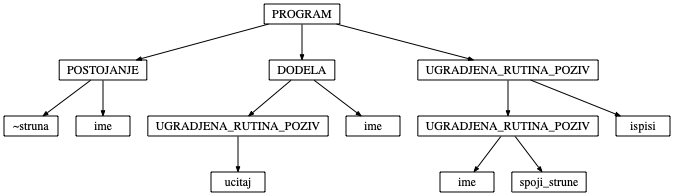
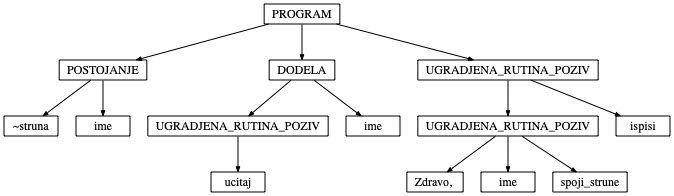
Example 3 working, Added jump function

Changed region(s): [[0.592, 0.6735, 0.9347, 1.0]]

diff --git a/project_2/interpreter/app/parser.py b/project_2/interpreter/app/parser.py
@@ -93,20 +93,22 @@ class Parser():
                         self.celina_ponovi()
                 if self.is_celina_pitanje():
                         self.celina_pitanje()
-                if self.current_token.token_type == NAREDBA_KRAJ:
-                        self.eat(NAREDBA_KRAJ)
-                if self.current_token.token_type == COLON:
-                        self.eat(COLON)
+                while self.current_token.token_type != NAREDBA_KRAJ:
+                        self.eat(self.current_token.token_type)
+                self.eat(NAREDBA_KRAJ)
+                self.eat(COLON)
                 return self.current_token.token_type == NAREDBA_PONAVLJANJE
 
         def naredba_ponavljanje(self):
                 self.eat(NAREDBA_POCETAK)
                 ponovi = self.celina_ponovi()
                 pitanje = self.celina_pitanje()
+                while self.current_token.token_type != NAREDBA_KRAJ:
+                        self.eat(self.current_token.token_type)
                 self.eat(NAREDBA_KRAJ)
                 self.eat(COLON)
                 self.eat(NAREDBA_PONAVLJANJE)
-                return NaredbaUslov(pitanje, ponovi)
+                return NaredbaPonavljanje(pitanje, ponovi)
 
         def dodela(self):
                 self.eat(DODELA_POCETAK)
@@ -232,17 +234,32 @@ class Parser():
                                 cvorovi.append(self.rutina_poziv())
                         elif self.current_token.token_type == UGRADJENA_RUTINA_POZIV_POCETAK:
                                 cvorovi.append(self.ugradjena_rutina_poziv())
+                        elif self.current_token.token_type == VRATI_POCETAK:
+                                cvorovi.append(self.vrati())
                         else:
                             self.error('Derivation error: CELINA_CELINA')
                 return CelinaCelina(cvorovi)
+
+        def jump(self, start, end):
+            depth = 0
+            while self.current_token.token_type != EOF:
+                    if self.current_token.token_type == start:
+                        depth += 1
+                    elif self.current_token.token_type == end:
+                        depth -= 1
+                        if depth < 0:
+                            break
+                    self.eat(self.current_token.token_type)
+
 
         def rutina(self):
             self.eat(RUTINA_POCETAK)
             self.eat(PIPE)
             tip = None
             if self.current_token.token_type == TIP_PODATKA:
-                tip = self.tip_podatka()
+                    tip = self.tip_podatka()
             sadrzaj = self.celina_sadrzaj_rutine()
+            self.jump(RUTINA_POCETAK, RUTINA_KRAJ)
             self.eat(RUTINA_KRAJ)
             self.eat(COLON)
             naziv = self.naziv()
@@ -278,6 +295,13 @@ class Parser():
             naziv = self.naziv()
             return UgradjenaRutinaPoziv(argumenti, naziv)
 
+        def vrati(self):
+                self.eat(VRATI_POCETAK)
+                self.eat(PIPE)
+                izraz = self.logic()
+                self.eat(VRATI_KRAJ)
+                return Vrati(izraz)
+
         def tip_podatka(self):
                 if self.current_token.token_type == TIP_PODATKA:
                         tip = TipPodatka(self.current_token.value)
@@ -302,6 +326,9 @@ class Parser():
                 elif token.token_type == NAZIV:
                         self.eat(NAZIV)
                         return Naziv(token.value)
+                elif token.token_type == STRUNA:
+                        self.eat(STRUNA)
+                        return Naziv(token.value)
                 elif token.token_type in [MINUS, LOGICKO_NE]:
                         op_token = self.current_token
                         if op_token.token_type == MINUS:
@@ -324,7 +351,7 @@ class Parser():
                         self.eat(ZAGRADA_ZATVORENA)
                         return result
                 elif token.token_type == RUTINA_POZIV_POCETAK:
-                        return rutina_poziv()
+                        return self.rutina_poziv()
                 elif token.token_type == UGRADJENA_RUTINA_POZIV_POCETAK:
                         return self.ugradjena_rutina_poziv()
 

diff --git a/project_2/interpreter/app/lexer.py b/project_2/interpreter/app/lexer.py
@@ -63,7 +63,7 @@ class Lexer():
                         return Token(CELINA_KRAJ, string)
                 elif string == '#rutina':
                         return Token(RUTINA_POCETAK, string)
-                elif string == '#rutina':
+                elif string == '##rutina':
                         return Token(RUTINA_KRAJ, string)
                 elif string == '#~rutina':
                         return Token(RUTINA_POZIV_POCETAK, string)
@@ -80,7 +80,7 @@ class Lexer():
                 elif string == 'uslov':
                         return Token(NAREDBA_USLOV, string)
                 elif string == 'ponavljanje':
-                        return Token(NAREDA_PONAVLJANJE, string)
+                        return Token(NAREDBA_PONAVLJANJE, string)
                 elif string == 'pitanje':
                         return Token(CELINA_PITANJE, string)
                 elif string == 'da':

diff --git a/project_2/interpreter/app/interpreter.py b/project_2/interpreter/app/interpreter.py
@@ -83,13 +83,11 @@ class Interpreter(NodeVisitor):
                 node._num = self.ncount
                 self.ncount += 1
 
-                for arg in node.arguenti:
-                        self.visit(arg)
-                        self.dot.edge('node{}'.format(node._num), 'node{}'.format(arg._num))
+                for arg in node.argumenti:
+                        if arg is not None:
+                                self.visit(arg)
+                                self.dot.edge('node{}'.format(node._num), 'node{}'.format(arg._num))
         
-                node._num = self.ncount
-                self.ncount += 1
-
                 self.visit(node.naziv)
                 self.dot.edge('node{}'.format(node._num), 'node{}'.format(node.naziv._num))
 
